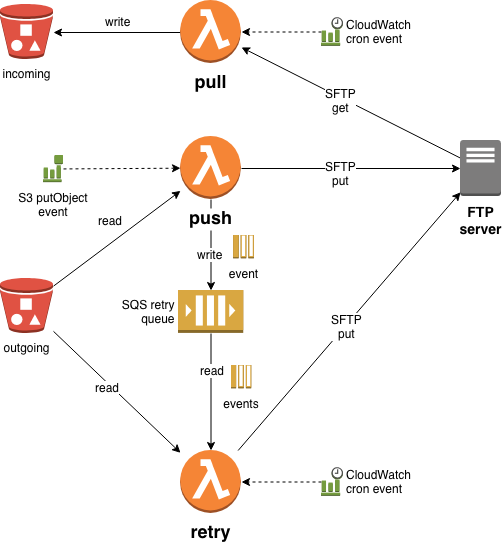
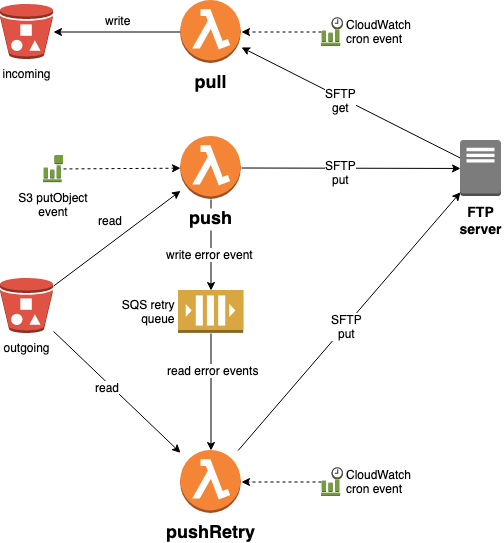
more doc improvements (#4)

diff --git a/README.md b/README.md
@@ -4,22 +4,40 @@
 
 Serverless lambda functions to sync files between AWS S3 and an SFTP server.
 
-## Use case
-
-1. the 3rd party provides the SFTP server
-2. _you_ initiate the connection (push or pull), not the 3rd party
-3. very cheap compared to running your own FTP server or paying for an FTP service (never pay for idle!)
+- [sftp-lambda](#sftp-lambda)
+  - [Characteristics](#characteristics)
+  - [Description](#description)
+  - [How it works](#how-it-works)
+    - [Activity Diagram](#activity-diagram)
+    - [Sequence Diagram](#sequence-diagram)
+  - [Configuration](#configuration)
+    - [Environment Variables](#environment-variables)
+    - [Custom VPC](#custom-vpc)
+  - [Design Details](#design-details)
+    - [pull (S3 <- SFTP)](#pull-s3---sftp)
+    - [push (S3 -> SFTP)](#push-s3---sftp)
+    - [pushRetry (S3 -> SFTP)](#pushretry-s3---sftp)
 
 ## Characteristics
 
-- cheaper than _AWS Transfer for SFTP_
+- a 3rd party provides an SFTP server where you need to push / pull files
+- **_YOU_** always initiate the connection (push or pull), not the 3rd party
+- the data that you pull is not needed urgently, i.e. you are happy to pull
+  files less frequently than every minute or every second
+- you don't run your own SFTP server
+- you don't pay for an SFTP service
+- **_CHEAP_**
+  - cheaper than _AWS Transfer for SFTP_
   - **_MUCH_** cheaper if you don't need a static IP address for whitelisting on the FTP server
     - it's just the cost of the Lambdas executions
     - but this is not recommended
       - best practice is to use a static IP and get it whitelisted
-  - at least **_5x_** cheaper even if you _do_ need a fixed IP
-    - in this case, the main cost is for a NAT gateway and elastic IP which are still much
-      cheaper than _AWS Transfer for SFTP_
+  - at least **_FIVE TIMES_** cheaper even if you **_DO_** need a fixed IP
+    - the main cost of the fixed IP is the price of a NAT gateway + elastic IP
+    - these are still very cheap compared to _AWS Transfer for SFTP_
+
+## Description
+
 - All connections are initiated from **your** AWS account
   - you therefore have full control and visibilty of transfers
 - 3 lambda functions:
@@ -32,13 +50,19 @@ Serverless lambda functions to sync files between AWS S3 and an SFTP server.
 
 ## How it works
 
-- S3 -> SFTP (`push` & `pushRetry`)
+- S3 to SFTP (`push` & `pushRetry`)
+
   - triggered whenever a file is uploaded to an S3 bucket
-    - the file is immediately transfered to the configured FTP server
-    - every S3 object will be transferred in its own lambda & SFTP connection
+  - the file is immediately transfered to the configured FTP server
+  - every S3 object will be transferred in its own lambda & SFTP connection
+    - lots of files means lots of separate connections
+      - if you are not happy about this,
+        then maybe this is not the best tool for your use case
+  - S3 metadata on each object is updated to indicate that the object has been
+    successfully transferred
   - failures are sent to an SQS queue for later pushRetry
-  - S3 metadata on each object is updated to indicate if the object has been successfully transferred
-- S3 <- SFTP (`pull`)
+
+- S3 from SFTP (`pull`)
   - pulls multiple files in one connection
   - pulls tree structures recursively
   - recreates the same directory structure in the target bucket
@@ -46,8 +70,19 @@ Serverless lambda functions to sync files between AWS S3 and an SFTP server.
     - this prevents files being copied multiple times
     - the SFTP server owner can therefore see which files have been transferred
     - if a file needs to be re-transferred for any reason,
-      the SFTP server owner can move it from `.done` to the parent directory
-  - an optional retention period can be configured to purge files from the `.done` directory after a period of time
+      the SFTP server owner can move it from the `.done` directory back up to its parent directory
+  - an optional retention period can be configured to purge files from
+    the `.done` directory after a configurable number of days
+
+The diagrams in the following sections should help.
+
+### Activity Diagram
+
+![Activity Diagram](diagrams/activity.png)
+
+### Sequence Diagram
+
+![Sequence Diagram](diagrams/sequence.png)
 
 ## Configuration
 
@@ -63,26 +98,39 @@ Serverless lambda functions to sync files between AWS S3 and an SFTP server.
 
 Not all variables are required by all lambdas, as described below:
 
-| variable                        | applies to function | notes                                                                                                                                                        |
-| ------------------------------- | ------------------- | ------------------------------------------------------------------------------------------------------------------------------------------------------------ |
-| SFTP_HOST, SFTP_PORT, SFTP_USER | all                 | SSH (SFTP) connection information                                                                                                                            |
-| SFTP_PRIVATE_KEY                | all                 | SSH private key (the key multiline contents, not the filename)                                                                                               |
-| SFTP_RETRY_QUEUE_NAME           | push, pushRetry     | SQS pushRetry queue name                                                                                                                                     |
-| SFTP_TARGET_S3_BUCKET           | pull                | target S3 bucket                                                                                                                                             |
-| SFTP_TARGET_S3_PREFIX           | pull                | target S3 object key prefix                                                                                                                                  |
-| SFTP_SOURCE_DIR                 | pull                | source directory to pull from                                                                                                                                |
-| SFTP_FILE_RETENTION_DAYS        | pull                | how many days after file transfer to keep a file on source SFTP server (in the `.done` directory) before deleting. Set this to zero to disable this feature. |
+| variable                        | applies to function | notes                                                                                                                                                            |
+| ------------------------------- | ------------------- | ---------------------------------------------------------------------------------------------------------------------------------------------------------------- |
+| SFTP_HOST, SFTP_PORT, SFTP_USER | all                 | SSH (SFTP) connection information                                                                                                                                |
+| SFTP_PRIVATE_KEY                | all                 | SSH private key (the key multiline contents, not the filename)                                                                                                   |
+| SFTP_RETRY_QUEUE_NAME           | push, pushRetry     | SQS pushRetry queue name                                                                                                                                         |
+| SFTP_TARGET_S3_BUCKET           | pull                | target S3 bucket                                                                                                                                                 |
+| SFTP_TARGET_S3_PREFIX           | pull                | target S3 object key prefix                                                                                                                                      |
+| SFTP_SOURCE_DIR                 | pull                | source directory to pull from                                                                                                                                    |
+| SFTP_FILE_RETENTION_DAYS        | pull                | how many days after file transfer to keep a file on the source SFTP server (in the `.done` directory) before deleting. Set this to zero to disable this feature. |
+
+### Custom VPC
+
+Setup a custom VPC if you want a fixed IP address.
+
+The approach here is to run the Lambdas in a private subnet and route via a NAT
+in a public subnet which has an EIP (fixed IP address). Note that since the
+Lambda is running in a private subnet, the private subnet needs to be given
+access to an S3 service endpoint so that the Lambda can access the S3 bucket.
+
+![Custom VPC](diagrams/vpc.png)
 
 ## Design Details
 
 ### pull (S3 <- SFTP)
 
 - scheduled via CloudWatch cron
-- connects to SFTP server & copy recursive tree structure to S3 bucket
-- moves successfully transferred files to `.done` directories on the SFTP server
+- connects to the SFTP server & recursively copies the source directory to the S3 bucket
+- the directory structure in the target bucket will match the directory
+  structure on the SFTP server, with an optional prefix path added to each object key
+  in the S3 bucket (effectively, a target S3 directory).
+- successfully transferred files are moved to a `.done` directory on the source SFTP server
   - a `.done` directory is created within each directory of the tree structure being copied
-- on error, this lambda fails
-- TODO: document the target path
+- on error, this lambda will fail
 
 ### push (S3 -> SFTP)
 
@@ -90,11 +138,10 @@ Not all variables are required by all lambdas, as described below:
 - pushes the single file to SFTP server
   - if successful, mark the meta data on the object as synced
 - on error:
-  - push the failed event to a pushRetry SQS queue
-  - after pushing the event onto the pushRetry queue, the lambda must SUCCEED
-    - this seems counter-intuitive, but if the lambda were to fail,
-      the AWS Lambda service will retry the same object, and we'd end up
-      with multiple events for the same object on the pushRetry queue
+  - push the failed event to a pushRetry SQS queue, then **_SUCCEED_**
+    - Note that if the lambda were to fail, the AWS Lambda service will retry
+      the same object, and we'd end up with multiple events for the same object
+      on the pushRetry queue.
 
 ### pushRetry (S3 -> SFTP)
 
@@ -107,24 +154,3 @@ Not all variables are required by all lambdas, as described below:
   - write the file to the SFTP server
   - if successful, delete message from the pushRetry queue
 - on error, this lambda should fail
-
-## Diagrams
-
-### Sequence Diagram
-
-![Sequence Diagram](diagrams/sequence.png)
-
-### Activity Diagram
-
-![Activity Diagram](diagrams/activity.png)
-
-### Custom VPC
-
-Setup a custom VPC if you want a fixed IP address.
-The approach here is to run the Lambdas in a private subnet
-and route via a NAT in a public subnet which has an EIP (fixed IP address).
-Note that since the Lambda is running in a private subnet,
-the private subnet needs to be given access to an S3 service endpoint so that
-the Lambda can access the S3 bucket.
-
-![Custom VPC](diagrams/vpc.png)
